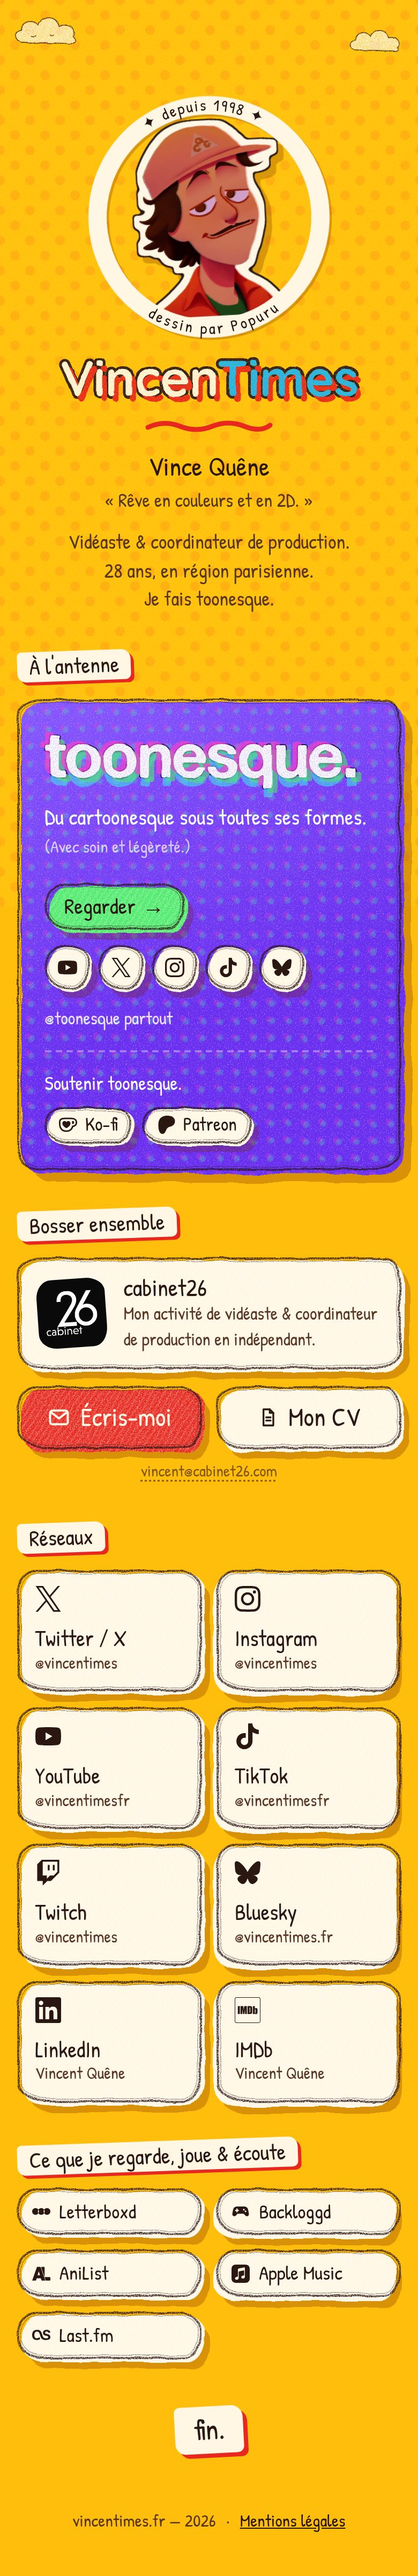
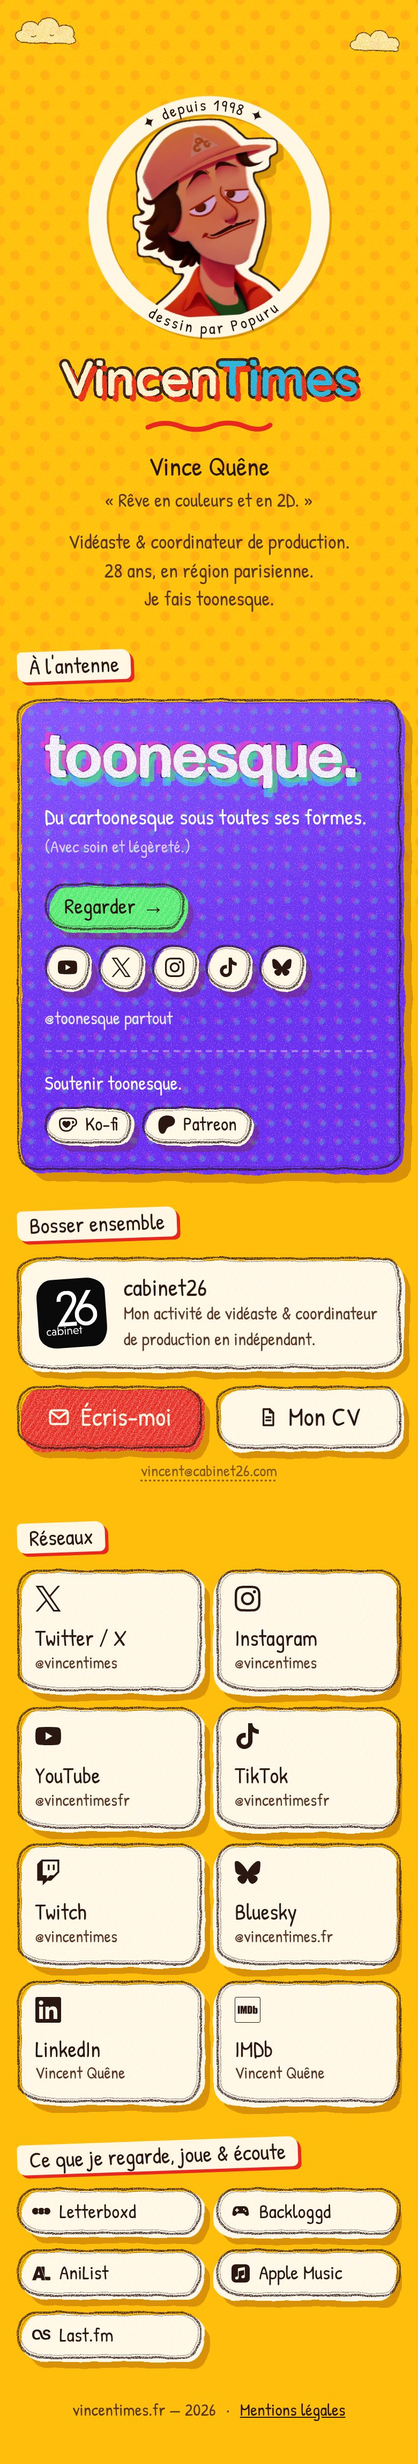
Bas de page : étiquette « fin. » retirée
Claude-Session: https://claude.ai/code/session_01LKzVBaJrLPfnWSfihrEFNx

diff --git a/assets/style.css b/assets/style.css
@@ -148,21 +148,6 @@ a { color: inherit; }
 .cloud-2 .float { animation-duration: 9s; animation-delay: -3s; }
 @keyframes float { 50% { transform: translate(8px, -5px); } }
 
-/* Étiquette « fin. » en bas de page (répond aux nuages du haut) */
-.the-end {
-  display: flex;
-  justify-content: center;
-  padding: 0.5rem 0 1rem;
-}
-.the-end span {
-  padding: 0.1rem 1.1rem 0.25rem;
-  font-size: 1.7rem;
-  background: var(--cream);
-  border-radius: 5px 11px 6px 10px;
-  box-shadow: 4px 4px 0 var(--red);
-  transform: rotate(-3deg);
-}
-
 /* ---------- Mise en page ---------- */
 
 .page {

diff --git a/index.html b/index.html
@@ -274,8 +274,6 @@
       </section>
 
 
-      <!-- Étiquette de fin, en écho aux nuages du haut -->
-      <p class="the-end" aria-hidden="true"><span>fin.</span></p>
     </div>
 
   </main>
